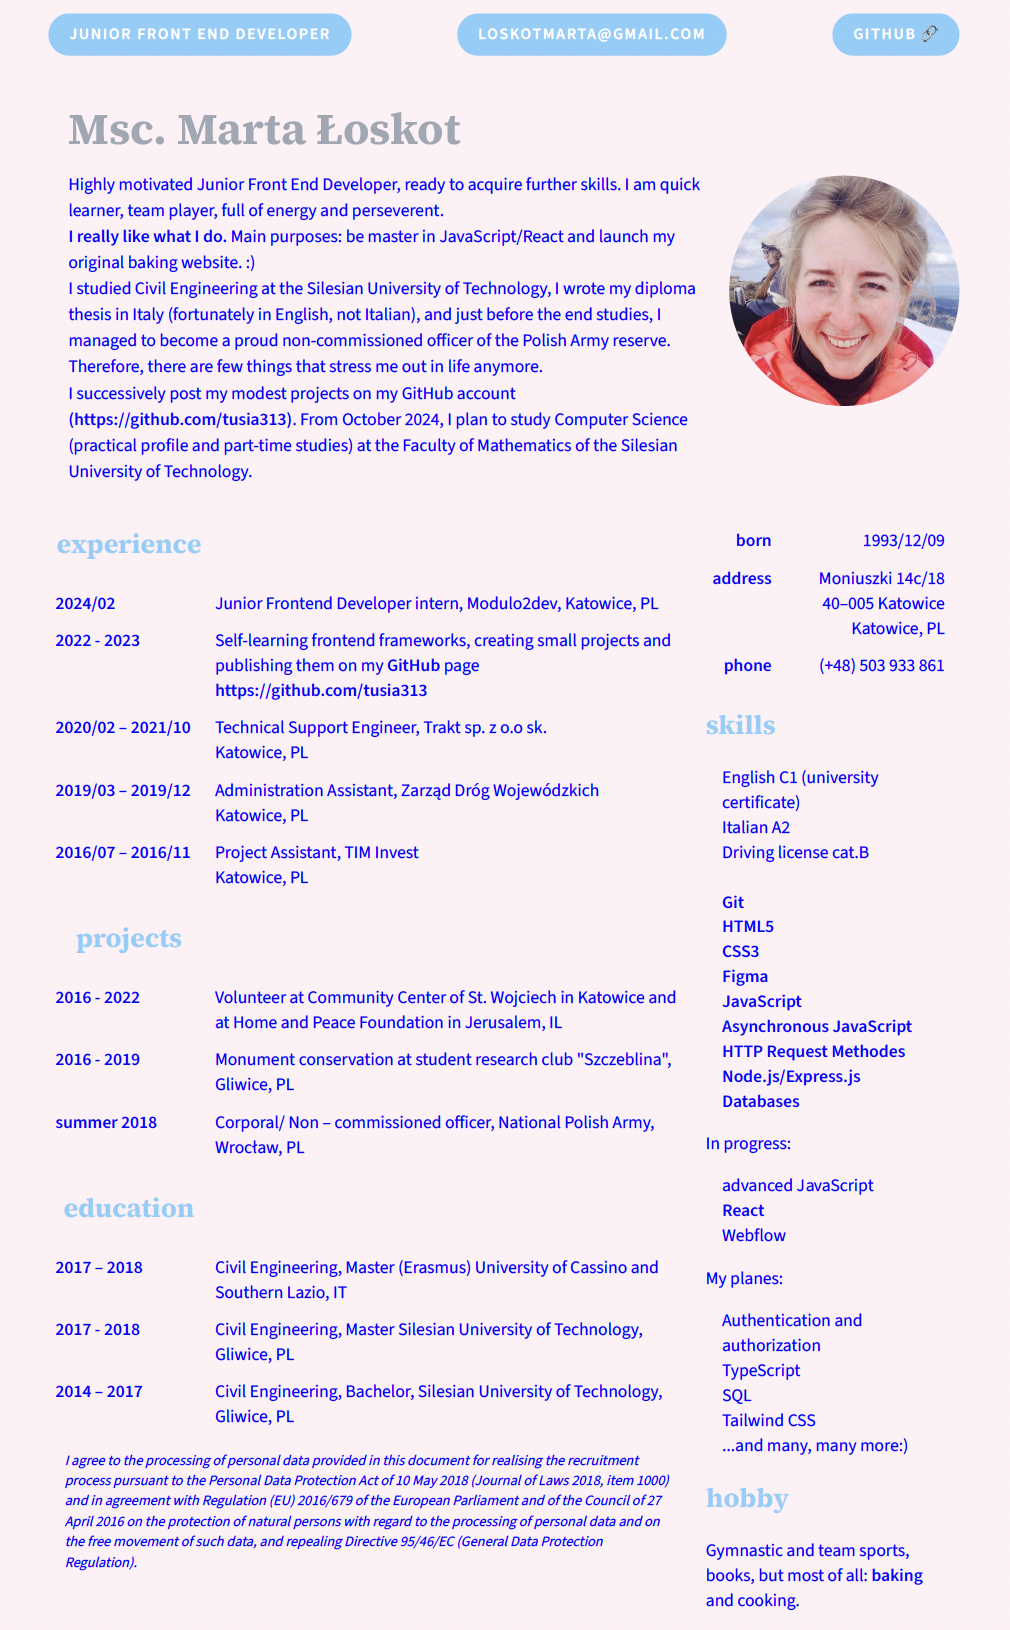
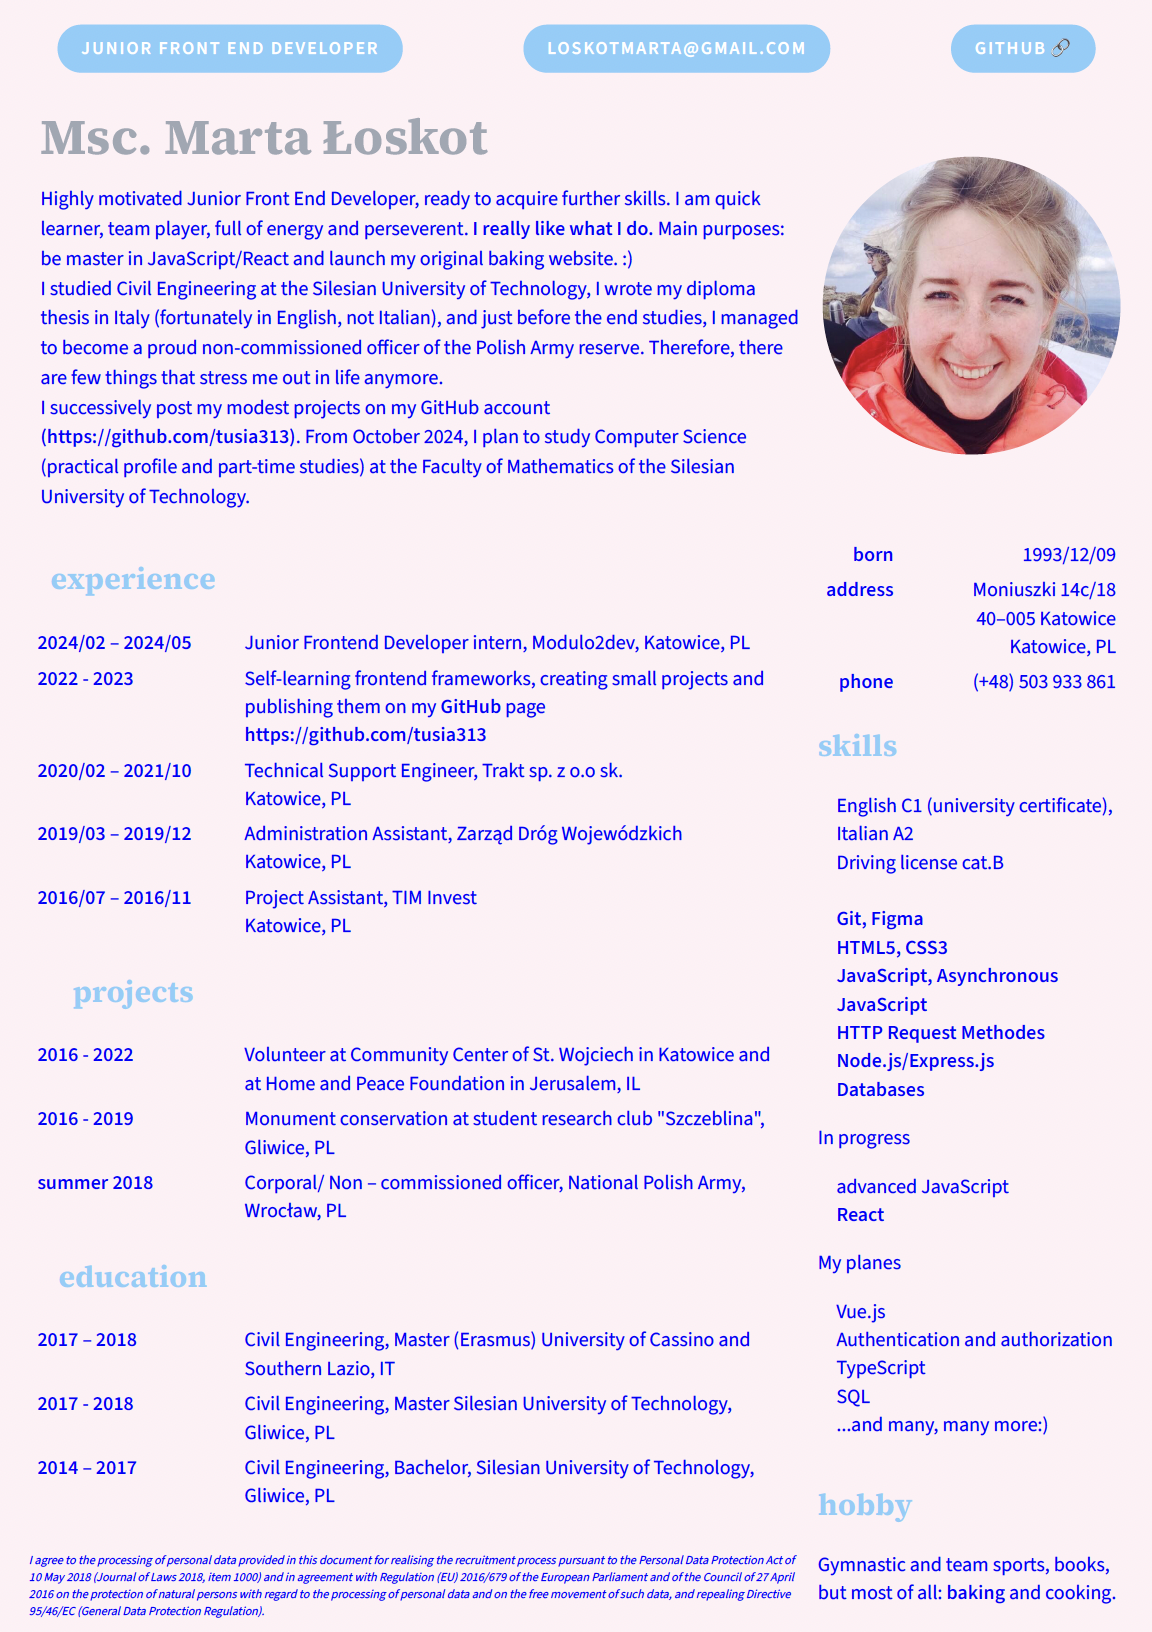
Add new screen

diff --git a/index.html b/index.html
@@ -27,7 +27,7 @@
                 <p>
                     Highly motivated Junior Front End Developer, ready to acquire further
                     skills. I am quick learner, team player, full of energy and perseverent.
-                    <br /><b>I really like what I do.</b>
+                    <b>I really like what I do.</b>
                     Main purposes: be master in JavaScript/React and launch my original baking website. :) <br />
                     I studied Civil Engineering at the Silesian University of Technology, I wrote my diploma thesis in
                     Italy (fortunately in English, not Italian), and just before the end
@@ -155,31 +155,26 @@
                 <section class="skills">
                     <h2>skills</h2>
                     <ul>
-                        <li>English C1 (university certificate)</li>
-                        <li>Italian A2</li>
+                        <li>English C1 (university certificate), Italian A2</li>
                         <li>Driving license cat.B</li></br>
-                        <li><b>Git</b></li>
-                        <li><b>HTML5</b></li>
-                        <li><b>CSS3</b></li>
-                        <li><b>Figma</b></li>
-                        <li><b>JavaScript</b></li>
-                        <li><b>Asynchronous JavaScript</b></li>
+                        <li><b>Git, Figma</b></li>
+                        <li><b>HTML5, CSS3 </b></li>
+                        <li><b>JavaScript, Asynchronous JavaScript </b></li>
                         <li><b>HTTP Request Methodes</b></li>
                         <li><b>Node.js/Express.js</b></li>
                         <li><b>Databases</b></li>
                     </ul>
-                    <p>In progress:</p>
+                    <p>In progress</p>
                     <ul>
                         <li>advanced JavaScript</li>
                         <li><b>React</b></li>
-                        <li>Webflow</li>
                     </ul>
-                    <p>My planes:</p>
+                    <p>My planes</p>
                     <ul>
+                        <li>Vue.js</li>
                         <li>Authentication and authorization</li>
                         <li>TypeScript</li>
                         <li>SQL</li>
-                        <li>Tailwind CSS</li>
                         <li>...and many, many more:)</li>
                     </ul>
                 </section>

diff --git a/css/style.css b/css/style.css
@@ -19,16 +19,19 @@ h2 {
 main {
     height: 3508px ;
     width: 2480px ;
-    /* border: 1px solid magenta; */
+    /* border: 3px solid magenta; */
+    display: flex;
+    flex-direction: column;
+    align-items: center;
+    justify-content: space-around;
 }
 
 nav {
     width: 90%;
-    margin: auto;
     display: flex;
     flex-wrap: wrap;
     justify-content: space-between;
-    padding: 1em 0;
+    padding: 4rem 0 2rem 0;
 }
 nav .info {
     color: white;
@@ -51,17 +54,18 @@ nav .info a:hover {
 }
 
 header {
-    width: 90%;
+    width: 95%;
     display: flex;
-    margin: 0 auto;
+    /* margin: 0 auto; */
     align-items: center;
-    padding-top: 2rem;
+    justify-content: space-around;
 }
 
 header .description {
-    width: 80%;
+    width: 70%;
+    /* font-size: 0.9em; */
     line-height: 1.5em;
-    padding: 0 3rem;
+    padding: 0 1rem;
 }
 
 header .description h1 {
@@ -77,9 +81,11 @@ header .profile img{
 }
 
 #section_container {
-    width: 90%;
+    width: 95%;
     display: flex;
-    margin: 0 auto;
+    justify-content: space-between;
+    align-items: center;
+    /* border: green 2px solid; */
 }
 
 section.left_site {
@@ -100,17 +106,22 @@ section.left_site table {
 
 table td{
     vertical-align: top;
-    padding: 0.9rem;
+    padding: 0.4rem 1rem;
  }
 
  table .date {
-    width: 25%;
+    width: 27%;
     font-weight: bold;
  }
 
 section.right_site {
-    width: 27%;
-    padding: 3rem 0 0 3rem;
+    width: 28%;
+    /* border: 2px solid plum; */
+    display: flex;
+    flex-direction: column;
+    align-items: center;
+    justify-content: center;
+    /* padding: 3rem 0 0 3rem; */
 }
 
 section.right_site table {
@@ -123,7 +134,6 @@ ul {
 
 aside.confidentialy_clause {
     width: 100%;
-    margin: 10rem auto 0 auto;
-    /* padding-bottom: 1rem; */
-    font-size: 0.8em;
+    margin: 5rem auto 0 auto;
+    font-size: 0.6em;
  }
